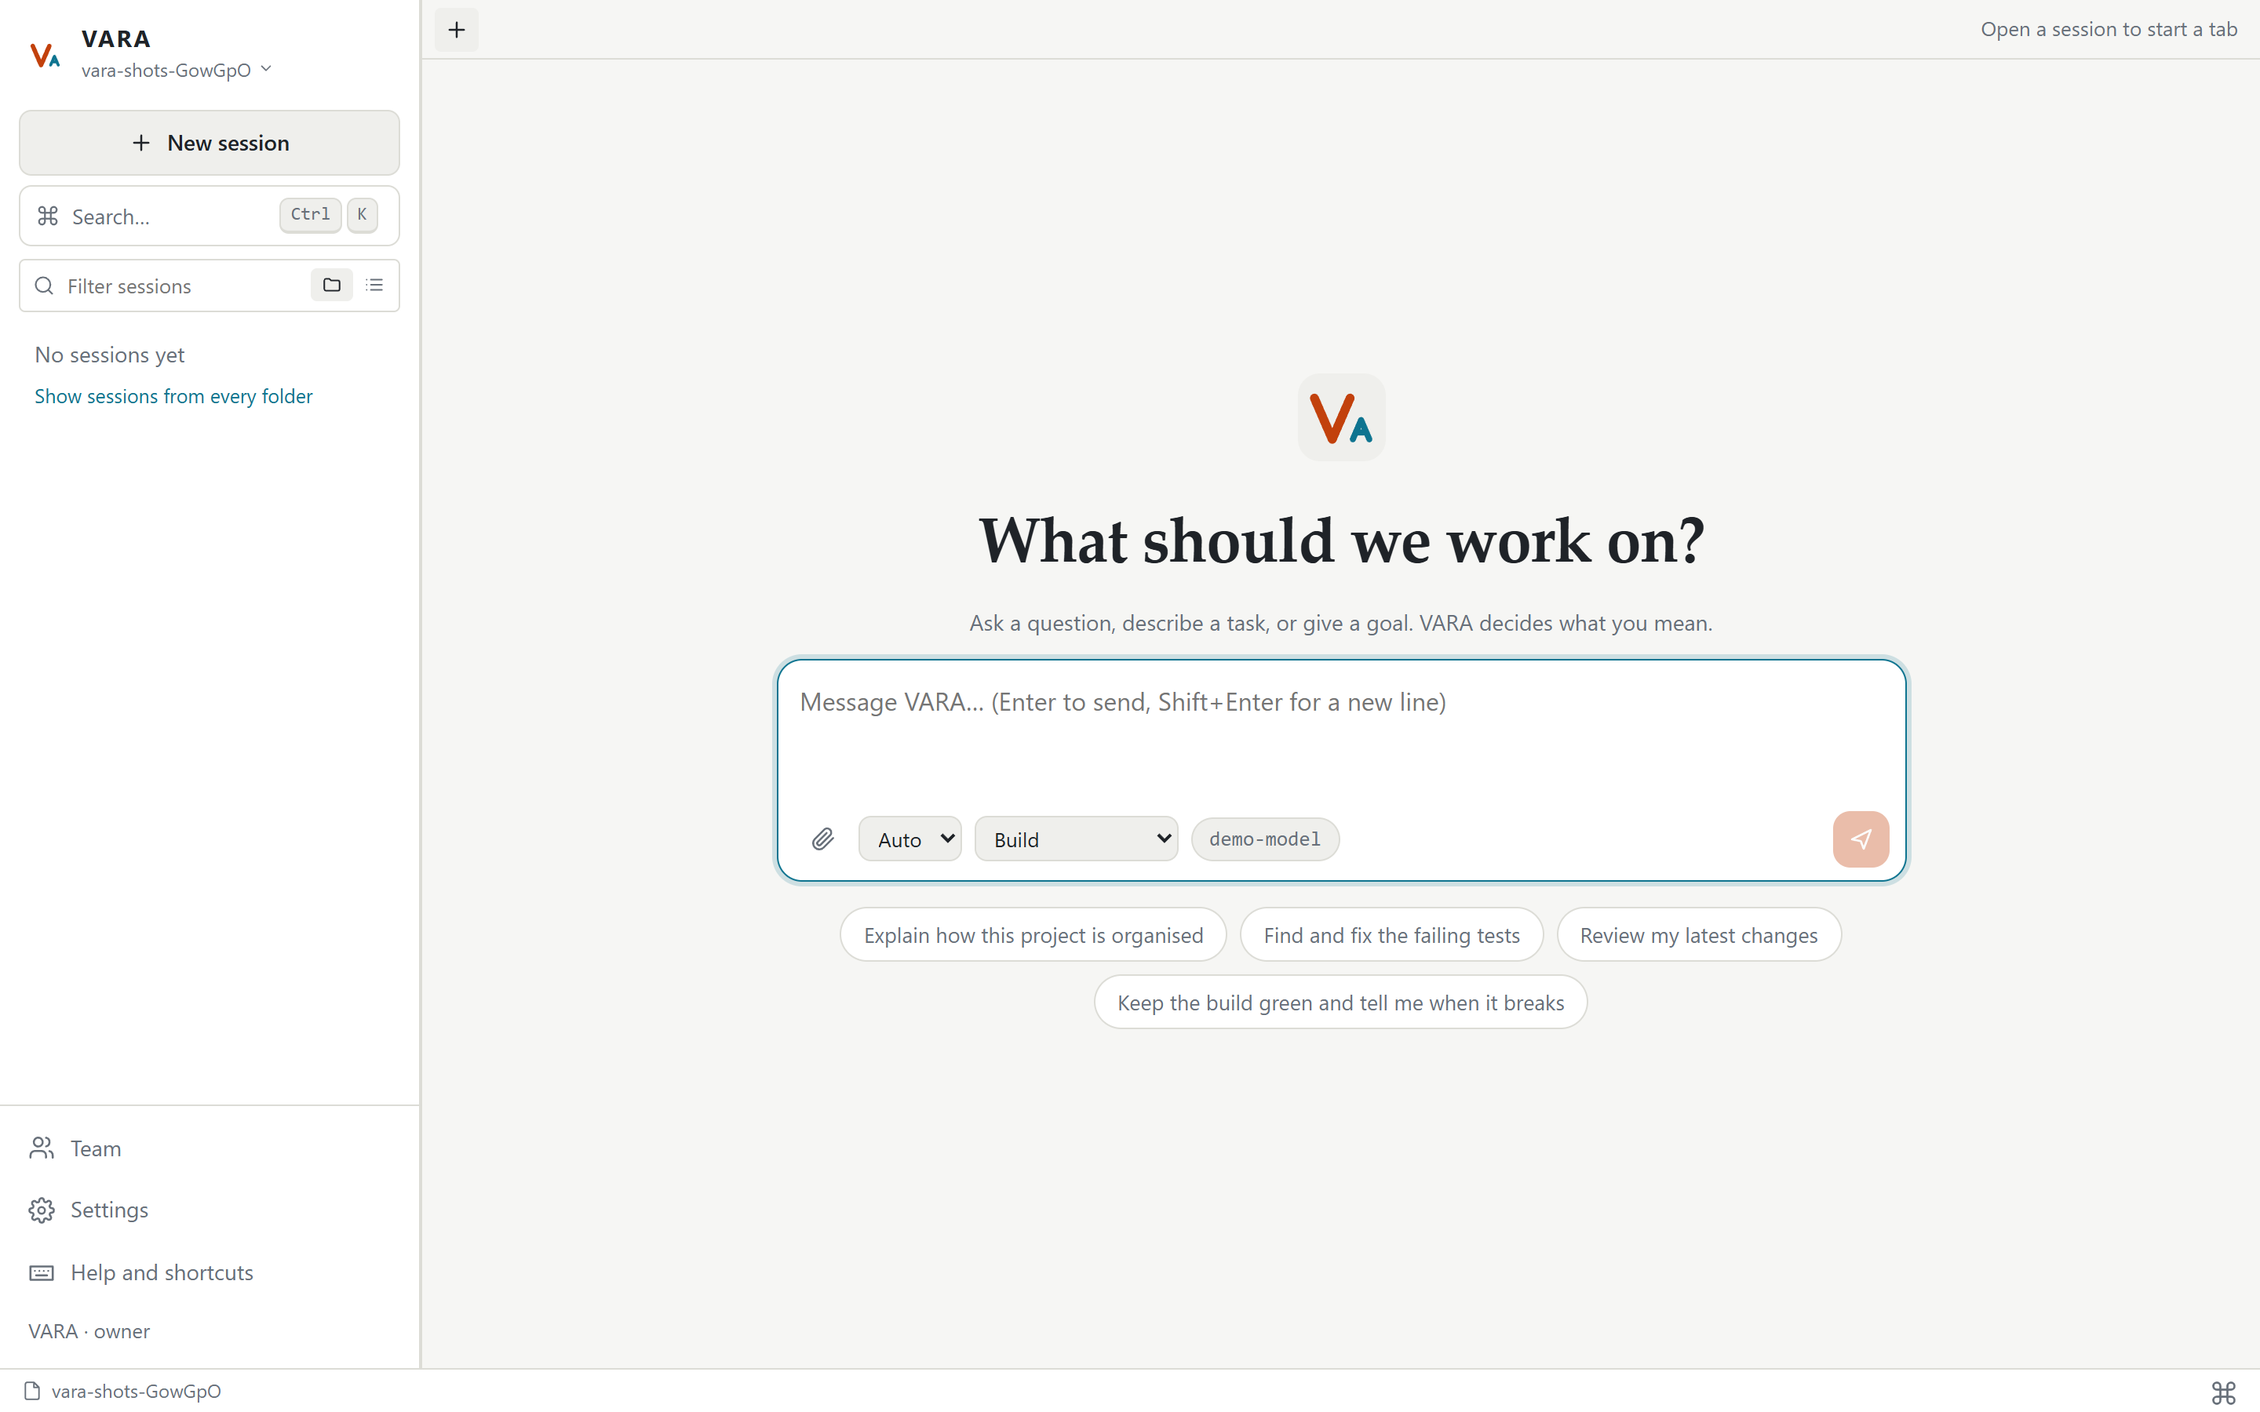
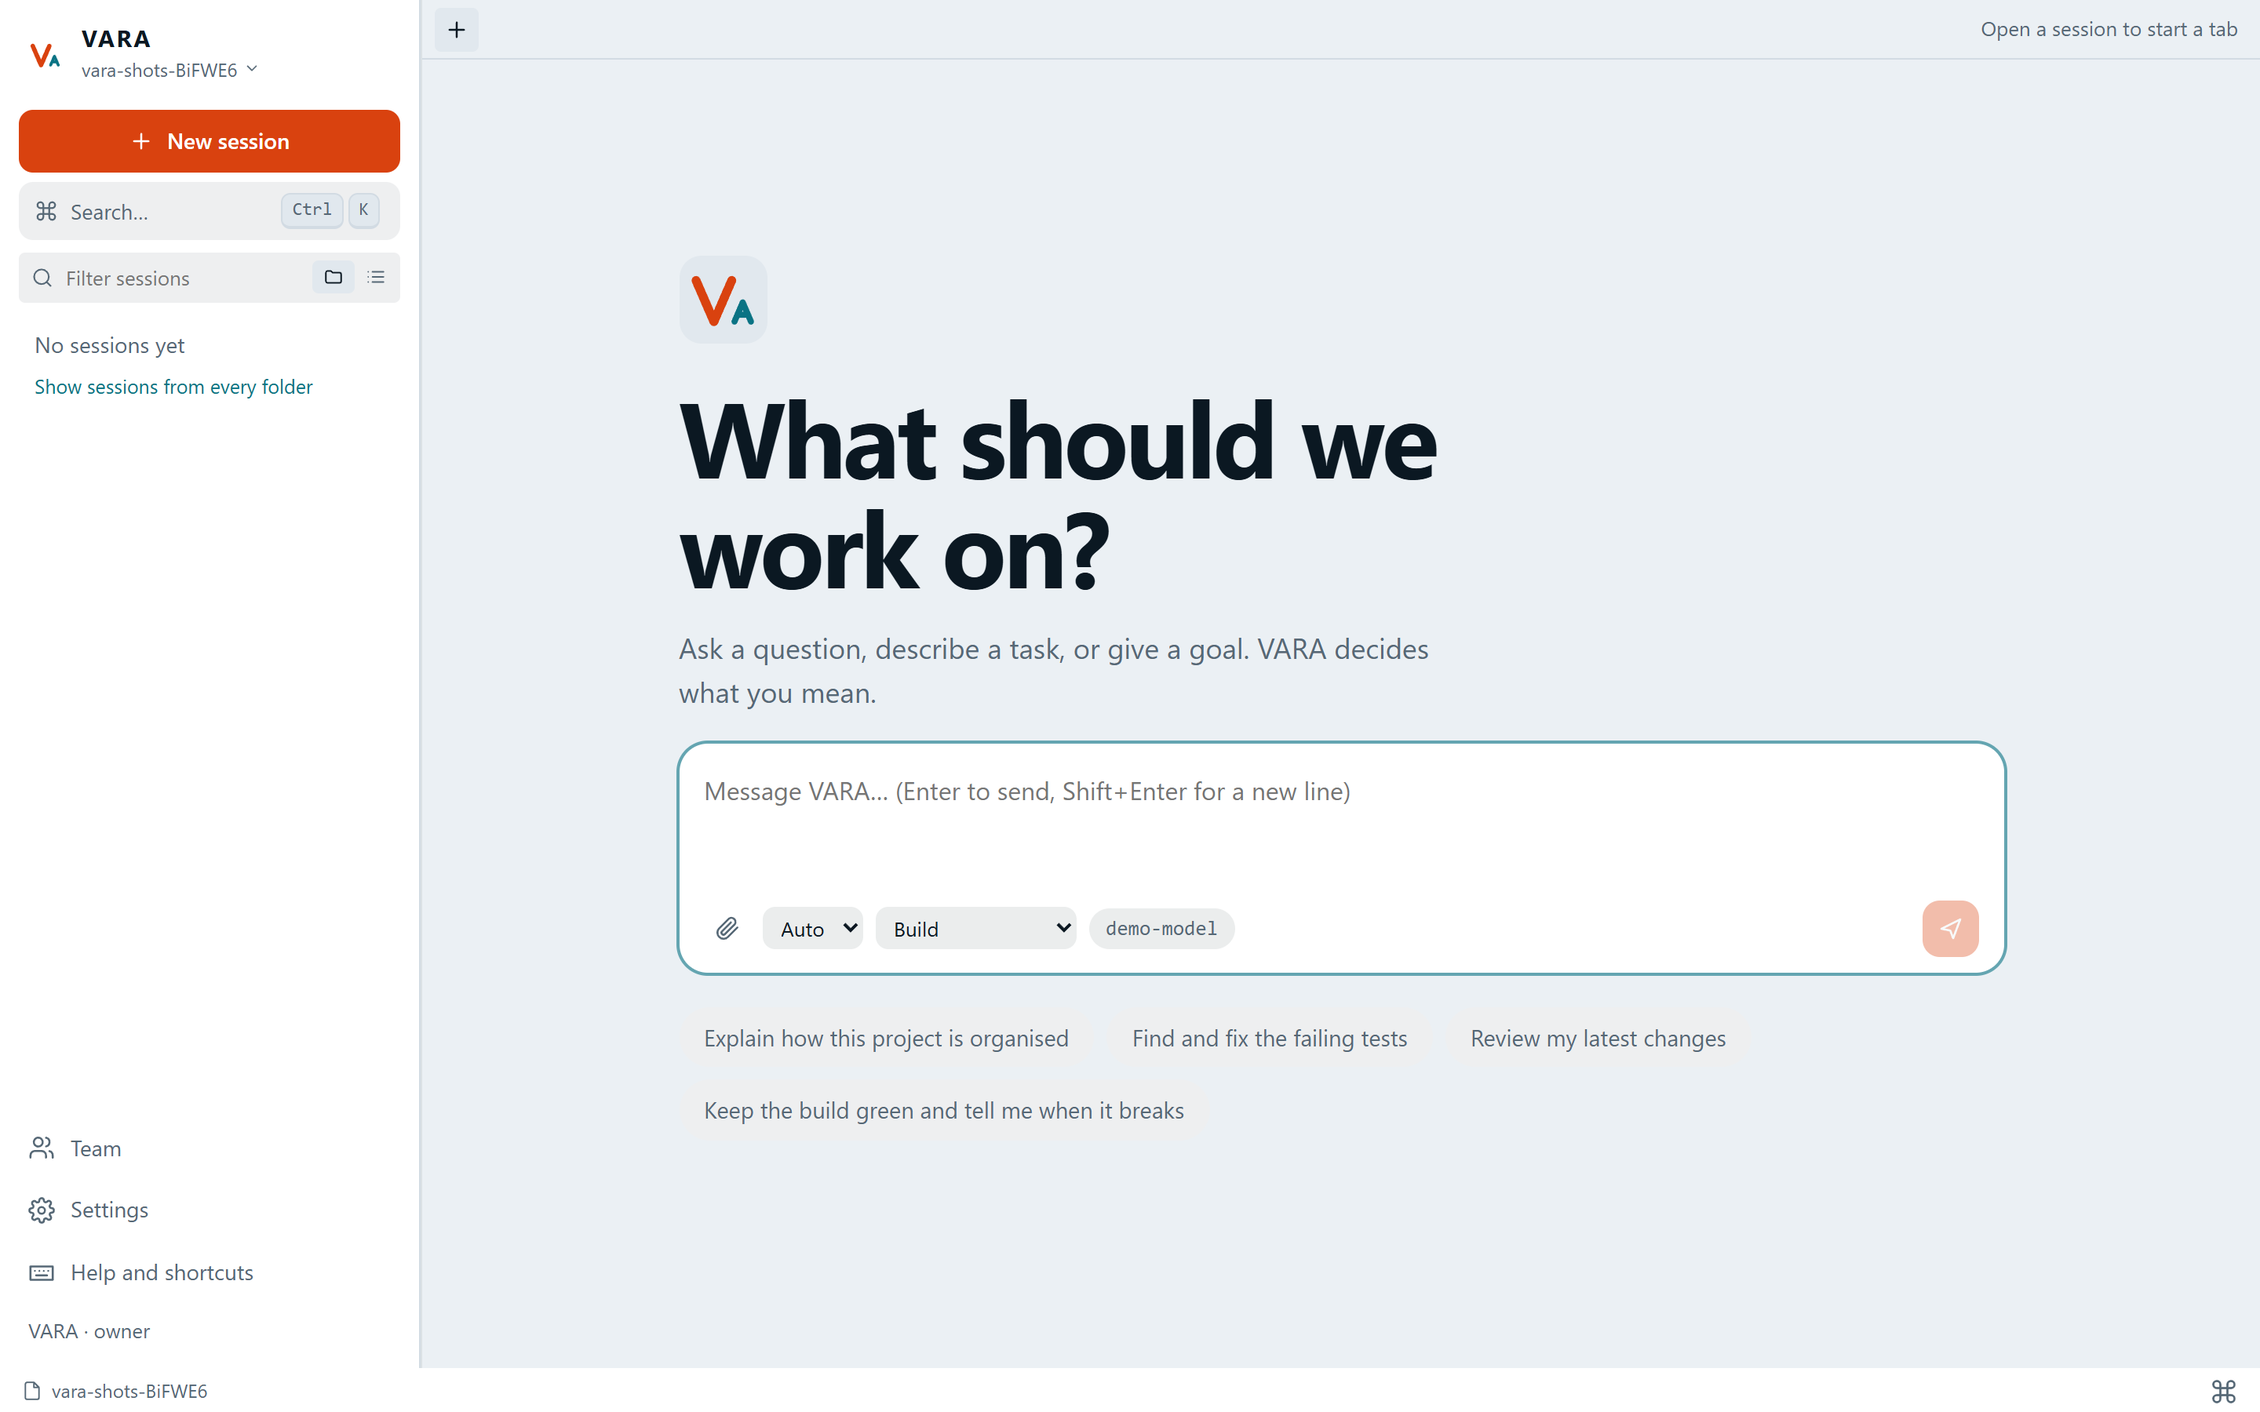
feat(ui): a new look — evidence rails, tone-step surfaces, cool ink/teal palette, left-aligned start screen; screenshots regenerated

diff --git a/ui/src/identity.css b/ui/src/identity.css
@@ -1,0 +1,91 @@
+/*
+ * VARA's look. Loaded after every other stylesheet, so it only has to say what is different.
+ *
+ * The idea: VARA's whole pitch is proof, so the interface is built around evidence. Work is a column of
+ * flat tool rows, each marked by a coloured rail (green done, red failed, orange running) instead of an outlined
+ * box; the proof panel is the one place with real density. Everything else gets quieter:
+ *   - surfaces are told apart by a step in tone, not by 1px lines or shadows;
+ *   - one accent for action (the logo's orange), teal only for links and focus;
+ *   - sentence-case labels at a readable size (no tiny tracked capitals);
+ *   - the start screen is a big left-aligned question, not a centred card.
+ * Borders stay where a control must read as a control (inputs, the composer's focus ring).
+ */
+
+:root {
+  --radius: 14px; --radius-sm: 9px;
+  --display: "Segoe UI Variable Display", "SF Pro Display", ui-sans-serif, system-ui, "Noto Sans Arabic", sans-serif;
+}
+
+/* ---------- surfaces: tone steps, no hairlines ---------- */
+.sidebar { border-inline-end: 0; background: var(--surface); }
+.sidebar-foot, .session-head, .panel-tabs, .statusbar { border: 0; }
+.panel { border-inline-start: 0; background: var(--surface); }
+.splitter { background: transparent; }
+.splitter-vertical, .splitter-horizontal { background: color-mix(in srgb, var(--text) 7%, transparent); }
+.session-head { background: transparent; padding-block: 16px 10px; }
+.statusbar { background: var(--surface); }
+.menu, .popover, .pop, .dialog, .palette { box-shadow: 0 12px 36px color-mix(in srgb, #000 28%, transparent); border: 0; }
+
+/* ---------- labels: sentence case, readable ---------- */
+.sidebar h3, .panel h3, .panel-body h4, .card h3 { text-transform: none; letter-spacing: 0; font-size: 13px; font-weight: 650; color: var(--muted); }
+.sidebar h3 { margin: 18px 10px 6px; }
+
+/* ---------- controls ---------- */
+.btn { border-color: transparent; background: color-mix(in srgb, var(--text) 8%, var(--surface)); }
+.btn:hover:not(:disabled) { background: color-mix(in srgb, var(--text) 13%, var(--surface)); border-color: transparent; }
+.btn-primary { background: var(--brand); color: #fff; }
+.btn-primary:hover:not(:disabled) { background: color-mix(in srgb, var(--brand) 88%, #fff); filter: none; }
+.new-btn { border: 0; background: var(--brand); color: #fff; }
+.new-btn:hover { background: color-mix(in srgb, var(--brand) 88%, #fff); }
+.chip { border: 0; background: color-mix(in srgb, var(--text) 8%, var(--surface)); }
+.badge { border: 0; background: color-mix(in srgb, currentColor 14%, transparent); }
+.tone-ok, .tone-warn, .tone-err, .tone-accent, .tone-brand, .tone-user { border: 0; }
+.session-item.active { background: color-mix(in srgb, var(--brand) 12%, var(--surface)); box-shadow: inset 3px 0 0 var(--brand); }
+[dir="rtl"] .session-item.active { box-shadow: inset -3px 0 0 var(--brand); }
+.panel-tabs button { border-radius: 8px; border-bottom: 0; padding-block: 6px; }
+.panel-tabs button.on { background: color-mix(in srgb, var(--text) 9%, transparent); border-bottom: 0; }
+a, .link-btn { color: var(--accent); }
+
+/* ---------- the conversation ---------- */
+.chat { width: min(860px, 100%); gap: 22px; }
+.msg-assistant > .md { font-size: 16px; line-height: 1.68; }
+.bubble { border: 0; background: color-mix(in srgb, var(--text) 9%, var(--surface)); border-radius: 18px; padding: 11px 16px; font-size: 15.5px; }
+.msg-user .bubble { border-end-end-radius: 6px; }
+
+/* Work as evidence: a flat row with a status rail, not an outlined card. */
+.tool { border: 0; border-inline-start: 4px solid var(--muted); border-radius: 3px 10px 10px 3px; background: color-mix(in srgb, var(--text) 5%, var(--surface)); box-shadow: none; }
+.tool.tool-ok { border-inline-start-color: var(--ok); }
+.tool.tool-fail { border-inline-start-color: var(--err); background: color-mix(in srgb, var(--err) 8%, var(--surface)); }
+.tool.tool-running { border-inline-start-color: var(--brand); }
+.tool-body { border-top: 0; background: color-mix(in srgb, var(--text) 4%, var(--bg)); }
+.tool-body .tool-out { border-top: 0; padding-top: 4px; }
+
+/* ---------- search, filter, suggestions, share: filled, not outlined ---------- */
+.search-btn, .session-filter, .suggestion, .share-btn { border: 0; background: color-mix(in srgb, var(--text) 7%, var(--surface)); }
+.search-btn:hover, .suggestion:hover, .share-btn:hover { background: color-mix(in srgb, var(--text) 12%, var(--surface)); border: 0; }
+.share-btn.on { background: color-mix(in srgb, var(--user) 16%, var(--surface)); color: var(--user); border: 0; }
+.suggestion { padding: 8px 16px; font-size: 14.5px; }
+.suggestions { justify-content: flex-start; }
+select, .composer select { border: 0; background: color-mix(in srgb, var(--text) 8%, var(--surface)); border-radius: 8px; }
+
+/* ---------- the composer ---------- */
+.composer { border: 0; background: var(--surface); border-radius: 18px; box-shadow: none; padding: 14px 16px 10px; }
+.composer:focus-within { box-shadow: 0 0 0 2px color-mix(in srgb, var(--accent) 60%, transparent); border: 0; }
+.composer.drop { box-shadow: 0 0 0 2px var(--accent); }
+.composer-wrap { padding-block-end: 20px; }
+
+/* ---------- the start screen: one big question, left-aligned ---------- */
+.home-inner { width: min(900px, 100%); margin: auto; padding: 48px 28px 64px; justify-items: start; text-align: start; gap: 18px; }
+.home h1 { font-family: var(--display); font-size: clamp(38px, 6.2vw, 68px); line-height: 1.02; letter-spacing: -0.035em; font-weight: 700; max-width: 14ch; }
+.home h1 + p, .home .home-sub { font-size: 18px; color: var(--muted); max-width: 52ch; }
+.home .composer { box-shadow: 0 0 0 1px color-mix(in srgb, var(--text) 14%, transparent); }
+.home .composer:focus-within { box-shadow: 0 0 0 2px color-mix(in srgb, var(--accent) 60%, transparent); }
+
+/* ---------- phone ---------- */
+@media (max-width: 720px) {
+  .home-inner { padding: 28px 18px 40px; }
+  .home h1 { font-size: clamp(32px, 11vw, 44px); }
+  .chat { gap: 18px; }
+}
+
+@media (prefers-reduced-motion: reduce) { * { transition-duration: 0.01ms !important; animation-duration: 0.01ms !important; } }

diff --git a/ui/src/theme.ts b/ui/src/theme.ts
@@ -22,14 +22,14 @@ export interface Theme {
 const t = (id: string, label: string, dark: boolean, v: Omit<Theme, 'id' | 'label' | 'dark'>): Theme => ({ id, label, dark, ...v })
 
 export const THEMES: Theme[] = [
-  t('vara', 'VARA (ember)', true, { bg: '#0f1114', surface: '#16191e', surface2: '#1d2128', border: '#2a2f38', text: '#e9e7e2', muted: '#8b919d', brand: '#F2A65A', accent: '#7FD1C2', user: '#C9A3F0', ok: '#8FD19E', warn: '#E9C46A', err: '#F07A7A', info: '#7FB0FF' }),
+  t('vara', 'VARA', true, { bg: '#0A1118', surface: '#111B25', surface2: '#18242F', border: '#22313F', text: '#E8EEF3', muted: '#8DA0AF', brand: '#FF6A3D', accent: '#46C6D6', user: '#A9B8FF', ok: '#5FD39A', warn: '#F0C060', err: '#FF7B7B', info: '#6CB2FF' }),
   t('tokyo-night', 'Tokyo Night', true, { bg: '#16161e', surface: '#1a1b26', surface2: '#202335', border: '#2f334d', text: '#c0caf5', muted: '#7982a9', brand: '#7AA2F7', accent: '#7DCFFF', user: '#BB9AF7', ok: '#9ECE6A', warn: '#E0AF68', err: '#F7768E', info: '#7AA2F7' }),
   t('catppuccin', 'Catppuccin', true, { bg: '#181825', surface: '#1e1e2e', surface2: '#262637', border: '#383850', text: '#cdd6f4', muted: '#8087a2', brand: '#CBA6F7', accent: '#89DCEB', user: '#F5C2E7', ok: '#A6E3A1', warn: '#F9E2AF', err: '#F38BA8', info: '#89B4FA' }),
   t('dracula', 'Dracula', true, { bg: '#21222c', surface: '#282a36', surface2: '#303241', border: '#44475a', text: '#f8f8f2', muted: '#8a92b8', brand: '#BD93F9', accent: '#8BE9FD', user: '#FF79C6', ok: '#50FA7B', warn: '#F1FA8C', err: '#FF5555', info: '#8BE9FD' }),
   t('nord', 'Nord', true, { bg: '#2a303c', surface: '#2e3440', surface2: '#363d4b', border: '#434c5e', text: '#e5e9f0', muted: '#8a94a8', brand: '#88C0D0', accent: '#8FBCBB', user: '#B48EAD', ok: '#A3BE8C', warn: '#EBCB8B', err: '#BF616A', info: '#81A1C1' }),
   t('gruvbox', 'Gruvbox', true, { bg: '#1d2021', surface: '#282828', surface2: '#32302f', border: '#504945', text: '#ebdbb2', muted: '#a89984', brand: '#FE8019', accent: '#8EC07C', user: '#D3869B', ok: '#B8BB26', warn: '#FABD2F', err: '#FB4934', info: '#83A598' }),
   t('rose-pine', 'Rosé Pine', true, { bg: '#14121f', surface: '#191724', surface2: '#1f1d2e', border: '#2a2740', text: '#e0def4', muted: '#908caa', brand: '#EBBCBA', accent: '#9CCFD8', user: '#C4A7E7', ok: '#9CCFD8', warn: '#F6C177', err: '#EB6F92', info: '#C4A7E7' }),
-  t('light', 'Light', false, { bg: '#f6f6f4', surface: '#ffffff', surface2: '#efefec', border: '#dcdcd6', text: '#1f2328', muted: '#68707a', brand: '#C2410C', accent: '#0E7490', user: '#7C3AED', ok: '#15803D', warn: '#B45309', err: '#B91C1C', info: '#1D4ED8' }),
+  t('light', 'Light', false, { bg: '#EBF0F4', surface: '#FFFFFF', surface2: '#E1E8EE', border: '#D2DBE3', text: '#0B1822', muted: '#566876', brand: '#D9420F', accent: '#0A7384', user: '#4F46B5', ok: '#16794A', warn: '#9A6700', err: '#C62828', info: '#1D5FC4' }),
   t('mono', 'Monochrome', true, { bg: '#0d0d0d', surface: '#141414', surface2: '#1b1b1b', border: '#2b2b2b', text: '#ededed', muted: '#8a8a8a', brand: '#ffffff', accent: '#cfcfcf', user: '#e0e0e0', ok: '#d0d0d0', warn: '#bdbdbd', err: '#ffffff', info: '#cfcfcf' }),
 ]
 

diff --git a/scripts/capture-screens.ts b/scripts/capture-screens.ts
@@ -125,7 +125,14 @@ try {
   await evaluate(`(() => { const t = document.querySelector('textarea'); t.dispatchEvent(new KeyboardEvent('keydown', { key: 'Enter', bubbles: true })); })()`)
   await sleep(9000)
   await shot('session', 1440, 900)
+  // The theme is remembered by the page itself, so switch it there and reload.
+  await evaluate("localStorage.setItem('vara.theme', 'vara')")
+  await call('Page.reload')
+  await sleep(3000)
   await shot('session-dark', 1440, 900, true)
+  await evaluate("localStorage.setItem('vara.theme', 'light')")
+  await call('Page.reload')
+  await sleep(3000)
   await shot('mobile', 390, 844)
 } finally {
   await chrome.close?.()

diff --git a/ui/src/main.tsx b/ui/src/main.tsx
@@ -3,5 +3,6 @@ import { App } from './components/App'
 import './styles.css'
 import './control-room.css'
 import './workbench.css'
+import './identity.css'
 
 createRoot(document.getElementById('root')!).render(<App />)

diff --git a/CHANGELOG.ar.md b/CHANGELOG.ar.md
@@ -6,6 +6,9 @@
 
 ---
 
+## غير مُصدَر بعد
+- **مظهر جديد لواجهة المتصفح.** مبنية حول الأدلة: العمل عمود من صفوف أدوات مسطّحة بشريط حالة (أخضر منجز، أحمر فاشل، برتقالي قيد العمل) بدل الصناديق المحدودة؛ الأسطح تتمايز بدرجة اللون لا بخطوط 1px ولا ظلال؛ العناوين بحروف عادية؛ وشاشة البداية سؤال كبير واحد محاذى لليسار؛ وألوان حبر وتركواز باردة (داكنة وفاتحة) مع برتقالي الشعار لون الفعل الوحيد بدل الكريمي والطوبي الافتراضيين. الأنماط في `ui/src/identity.css` وتُحمَّل أخيراً. خطوط النظام فقط حالياً (خط مرفق لاحقاً). فُحصت في لقطات README ولم تُراجَع يدوياً كل الشاشات بعد.
+
 ## [2026-10-16] — البحث في الويب، الذاكرة، OAuth، التقييم، الضغط، إكمال @ و/، وكيل أحدّ، لقطات (v0.5.3)
 - **إكمال `/` و`@`.** صارت الطرفية تقترح الأوامر والمهارات و`@مهارة` و`@خادم-mcp` و`@agents` و`@web` و`@browser` أثناء الكتابة، ويأخذ Tab أولها (ويبقى Tab يبدّل plan/build حين لا يوجد ما يُكمَل). وقائمة `@` في صندوق الرسالة بالمتصفح تعرض الشيء نفسه قبل ملفات المشروع.
 - **الوثائق والصور:** يعرض README الآن الواجهة الحقيقية (من `scripts/capture-screens.ts` بنموذج مكتوب سيناريو) ويذكر البحث في الويب والذاكرة والجدولة والضغط ومنشن @ وOAuth و`--public`. وبوابة الإصدار تعيد اختباراً متذبذباً مرتين في CI (لم يُنشر v0.5.2 لأن اختبار استطلاع انتهت مهلته على جهاز مزدحم؛ والالتزام نفسه نجح في CI).

diff --git a/CHANGELOG.md b/CHANGELOG.md
@@ -6,6 +6,9 @@ Everything that reached `main`, newest first. Every batch is verified: `npm run 
 
 ---
 
+## Unreleased
+- **A new look for the browser interface.** Built around evidence: work is a column of flat tool rows with a status rail (green done, red failed, orange running) instead of outlined boxes; surfaces are told apart by tone, not 1px lines or shadows; labels are sentence case; the start screen is one big left-aligned question; a cool ink-and-teal palette (dark and light) with the logo's orange as the only action colour replaces the cream-and-terracotta default. Styles live in `ui/src/identity.css`, loaded last. System fonts only for now (a bundled typeface is a later step). Checked in screenshots (README) but not yet in a manual pass over every screen.
+
 ## 2026-10-16 · v0.5.3 — web search, memory, OAuth, eval, compact, @ and / completion, sharper agent, screenshots
 - **Completion for `/` and `@`.** The terminal prompt now suggests commands, skills, `@skill`, `@mcp-server`, `@agents`, `@web` and `@browser` as you type, and Tab takes the first (Tab still flips plan/build when there is nothing to complete). The browser composer's `@` menu lists the same, above project files.
 - **Docs and pictures:** the README now shows the real interface (made by `scripts/capture-screens.ts` with a scripted model) and lists web search, memory, schedule, compact, @ mentions, OAuth and `--public`. The release gate retries a flaky test twice on CI (v0.5.2 was not published because one polling test timed out on a loaded runner; the same commit passed CI).
